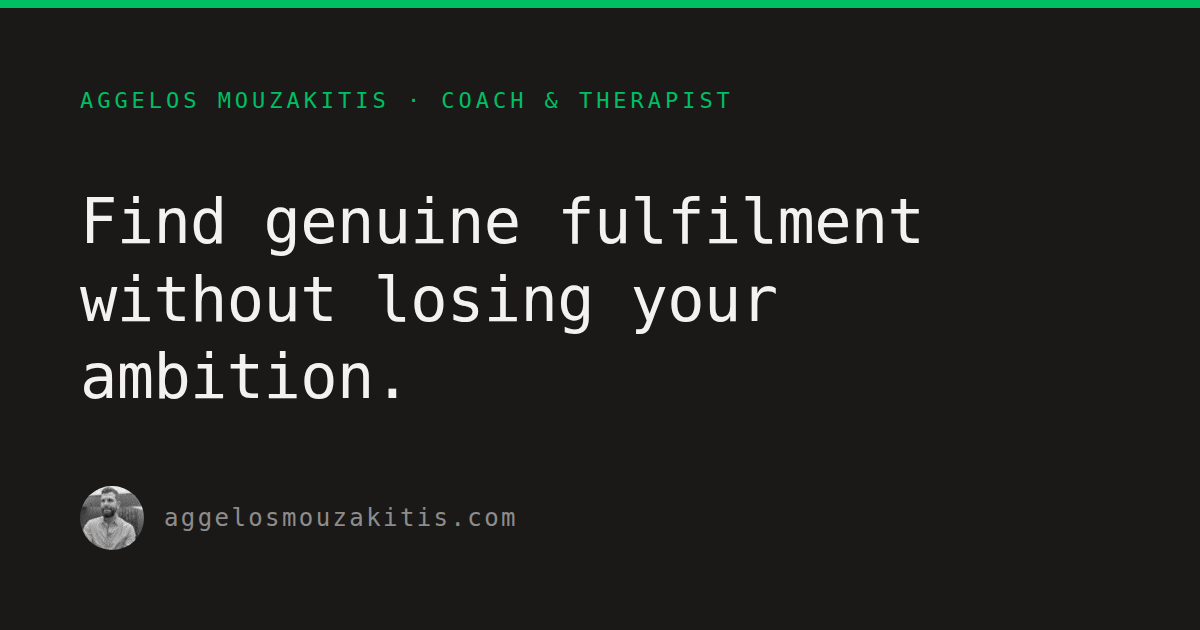
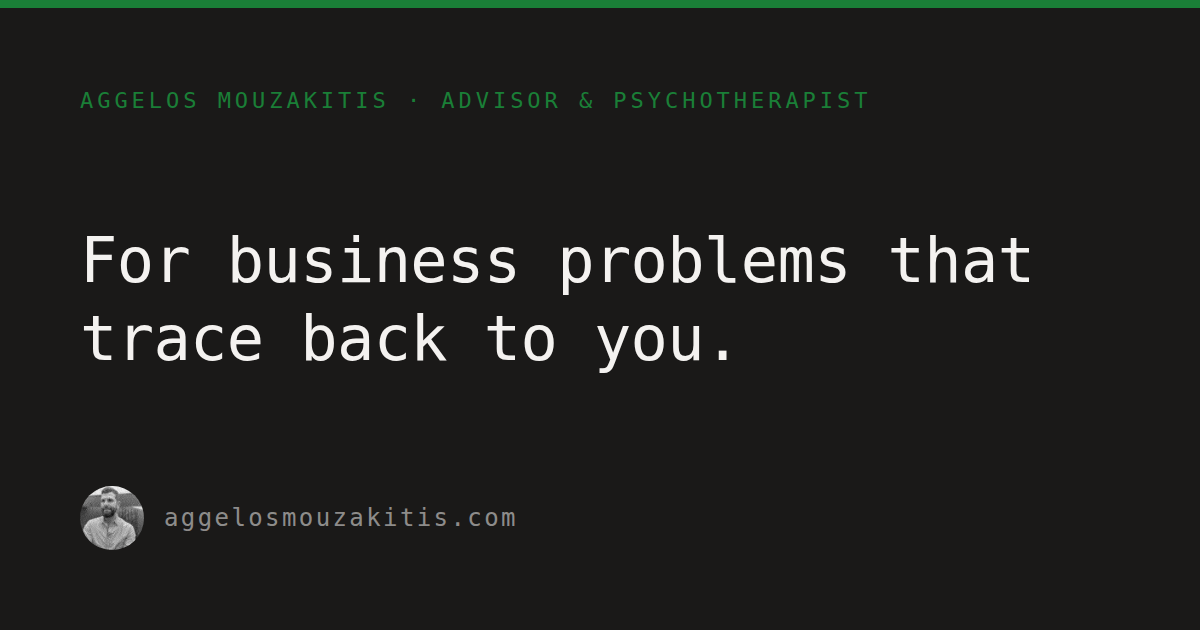
Refresh OG/social thumbnails to the new positioning; give every page its own
Every page now has a share image that matches it and reflects the current
'Advisor & Psychotherapist' brand (was the old 'Coach & Therapist /
fulfilment' graphic reused on 7 pages):

New dedicated images (were all reusing home.png): about, founders,
solopreneurs, how-i-work, book, reviews — HTML og:image/twitter:image and
alt repointed to each.

Updated in place:
- home.png: eyebrow -> 'Advisor & Psychotherapist'; headline -> 'For business
  problems that trace back to you.'
- burnout-diagnostic.png: dropped off-brand 'Fulfilment' -> 'The
  high-performance diagnostic'
- 5 therapy pages: eyebrow role -> 'Licensed Psychotherapist' (titles kept to
  match each page's retained SEO keywords)

blog, ask-me-anything, and the 26 per-post images were already current and
on-brand — left as-is. Regenerated via scripts/seo/og.js.

Claude-Session: https://claude.ai/code/session_01RZmmghnYEmeXZNG2CYV3SY

diff --git a/solopreneurs/index.html b/solopreneurs/index.html
@@ -27,17 +27,17 @@
 <meta property="og:title" content="Solopreneur Advisory for Business Problems That Trace Back to You | Aggelos Mouzakitis">
 <meta property="og:description" content="For solopreneurs and independent consultants whose stuck sales, pricing fear, or endless direction-switching trace back to a pattern in them, not a tactics problem. A trusted advisor who's built his own thing.">
 <meta property="og:url" content="https://aggelosmouzakitis.com/solopreneurs/">
-<meta property="og:image" content="https://aggelosmouzakitis.com/img/og/home.png">
+<meta property="og:image" content="https://aggelosmouzakitis.com/img/og/solopreneurs.png">
 <meta property="og:image:type" content="image/png">
 <meta property="og:image:width" content="1200">
 <meta property="og:image:height" content="630">
-<meta property="og:image:alt" content="Solopreneur advisory">
+<meta property="og:image:alt" content="Solopreneur advisory for problems that trace back to you">
 <meta property="og:site_name" content="Aggelos Mouzakitis">
 <meta property="og:locale" content="en_IE">
 <meta name="twitter:card" content="summary_large_image">
 <meta name="twitter:title" content="Solopreneur Advisory for Business Problems That Trace Back to You | Aggelos Mouzakitis">
 <meta name="twitter:description" content="For solopreneurs and independent consultants whose stuck sales, pricing fear, or endless direction-switching trace back to a pattern in them, not a tactics problem. A trusted advisor who's built his own thing.">
-<meta name="twitter:image" content="https://aggelosmouzakitis.com/img/og/home.png">
+<meta name="twitter:image" content="https://aggelosmouzakitis.com/img/og/solopreneurs.png">
 <script type="application/ld+json">{"@context":"https://schema.org","@type":"Person","name":"Aggelos Mouzakitis","url":"https://aggelosmouzakitis.com","image":"https://aggelosmouzakitis.com/img/aggelos.jpg","jobTitle":["Advisor","Licensed Psychotherapist"],"description":"Advisor and licensed psychotherapist helping solopreneurs and independent consultants work through the patterns behind stuck sales, pricing fear, and direction-switching, alongside the real business problem in front of them. 18+ years of B2B SaaS growth experience.","sameAs":["https://www.linkedin.com/in/growth-product-manager/","https://undisguised.io","https://headofgrowth.io"],"address":{"@type":"PostalAddress","addressCountry":"IE"},"hasCredential":{"@type":"EducationalOccupationalCredential","credentialCategory":"Professional Accreditation","name":"Registered Member, BACP","recognizedBy":{"@type":"Organization","name":"British Association for Counselling and Psychotherapy","alternateName":"BACP","url":"https://www.bacp.co.uk"}},"knowsAbout":["Solopreneur Psychology","Independent Consulting","Pricing Confidence","Visibility Fear","Procrastination","Business Strategy"]}</script>
 <style>
 *, *::before, *::after { margin: 0; padding: 0; box-sizing: border-box; }

diff --git a/founders/index.html b/founders/index.html
@@ -27,17 +27,17 @@
 <meta property="og:title" content="Founder Advisory for Business Problems That Trace Back to You | Aggelos Mouzakitis">
 <meta property="og:description" content="For tech founders whose stress, self-criticism, or stalled goals trace back to a pattern in them, not a strategy problem. A trusted advisor who's sat in your seat.">
 <meta property="og:url" content="https://aggelosmouzakitis.com/founders/">
-<meta property="og:image" content="https://aggelosmouzakitis.com/img/og/home.png">
+<meta property="og:image" content="https://aggelosmouzakitis.com/img/og/founders.png">
 <meta property="og:image:type" content="image/png">
 <meta property="og:image:width" content="1200">
 <meta property="og:image:height" content="630">
-<meta property="og:image:alt" content="For Founders">
+<meta property="og:image:alt" content="Founder advisory for problems that trace back to you">
 <meta property="og:site_name" content="Aggelos Mouzakitis">
 <meta property="og:locale" content="en_IE">
 <meta name="twitter:card" content="summary_large_image">
 <meta name="twitter:title" content="Founder Advisory for Business Problems That Trace Back to You | Aggelos Mouzakitis">
 <meta name="twitter:description" content="For tech founders whose stress, self-criticism, or stalled goals trace back to a pattern in them, not a strategy problem. A trusted advisor who's sat in your seat.">
-<meta name="twitter:image" content="https://aggelosmouzakitis.com/img/og/home.png">
+<meta name="twitter:image" content="https://aggelosmouzakitis.com/img/og/founders.png">
 <script type="application/ld+json">{"@context":"https://schema.org","@type":"Person","name":"Aggelos Mouzakitis","url":"https://aggelosmouzakitis.com","image":"https://aggelosmouzakitis.com/img/aggelos.jpg","jobTitle":["Advisor","Licensed Psychotherapist"],"description":"Advisor and licensed psychotherapist helping tech founders and solopreneurs work through the patterns behind stress, stalled decisions, and self-criticism, alongside the real business problem in front of them. 18+ years of B2B SaaS growth experience.","sameAs":["https://www.linkedin.com/in/growth-product-manager/","https://undisguised.io","https://headofgrowth.io"],"address":{"@type":"PostalAddress","addressCountry":"IE"},"hasCredential":{"@type":"EducationalOccupationalCredential","credentialCategory":"Professional Accreditation","name":"Registered Member, BACP","recognizedBy":{"@type":"Organization","name":"British Association for Counselling and Psychotherapy","alternateName":"BACP","url":"https://www.bacp.co.uk"}},"knowsAbout":["Founder Psychology","Startup Stress","Founder Loneliness","Decision Fatigue","Imposter Syndrome","Business Strategy"]}</script>
 <style>
 *, *::before, *::after { margin: 0; padding: 0; box-sizing: border-box; }

diff --git a/how-i-work/index.html b/how-i-work/index.html
@@ -27,17 +27,17 @@
 <meta property="og:title" content="How I Work | Aggelos Mouzakitis">
 <meta property="og:description" content="How I work with tech founders and solopreneurs: a private one-to-one advisory relationship in three steps — fit call, paid session, and ongoing work across an inner and a business track.">
 <meta property="og:url" content="https://aggelosmouzakitis.com/how-i-work/">
-<meta property="og:image" content="https://aggelosmouzakitis.com/img/og/home.png">
+<meta property="og:image" content="https://aggelosmouzakitis.com/img/og/how-i-work.png">
 <meta property="og:image:type" content="image/png">
 <meta property="og:image:width" content="1200">
 <meta property="og:image:height" content="630">
-<meta property="og:image:alt" content="How I Work">
+<meta property="og:image:alt" content="How I work">
 <meta property="og:site_name" content="Aggelos Mouzakitis">
 <meta property="og:locale" content="en_IE">
 <meta name="twitter:card" content="summary_large_image">
 <meta name="twitter:title" content="How I Work | Aggelos Mouzakitis">
 <meta name="twitter:description" content="How I work with tech founders and solopreneurs: a private one-to-one advisory relationship in three steps — fit call, paid session, and ongoing work across an inner and a business track.">
-<meta name="twitter:image" content="https://aggelosmouzakitis.com/img/og/home.png">
+<meta name="twitter:image" content="https://aggelosmouzakitis.com/img/og/how-i-work.png">
 <style>
 *, *::before, *::after { margin: 0; padding: 0; box-sizing: border-box; }
 html, body, #root { height: 100%; }

diff --git a/about/index.html b/about/index.html
@@ -27,17 +27,17 @@
 <meta property="og:title" content="About Aggelos Mouzakitis | Advisor &amp; Licensed Psychotherapist">
 <meta property="og:description" content="Advisor and licensed psychotherapist (BACP) for tech founders and solopreneurs. 18+ years in product and growth. Based in Ireland, working globally.">
 <meta property="og:url" content="https://aggelosmouzakitis.com/about/">
-<meta property="og:image" content="https://aggelosmouzakitis.com/img/og/home.png">
+<meta property="og:image" content="https://aggelosmouzakitis.com/img/og/about.png">
 <meta property="og:image:type" content="image/png">
 <meta property="og:image:width" content="1200">
 <meta property="og:image:height" content="630">
-<meta property="og:image:alt" content="Aggelos Mouzakitis">
+<meta property="og:image:alt" content="Aggelos Mouzakitis — advisor and licensed psychotherapist">
 <meta property="og:site_name" content="Aggelos Mouzakitis">
 <meta property="og:locale" content="en_IE">
 <meta name="twitter:card" content="summary_large_image">
 <meta name="twitter:title" content="About Aggelos Mouzakitis">
 <meta name="twitter:description" content="Advisor and licensed psychotherapist (BACP) for tech founders and solopreneurs.">
-<meta name="twitter:image" content="https://aggelosmouzakitis.com/img/og/home.png">
+<meta name="twitter:image" content="https://aggelosmouzakitis.com/img/og/about.png">
 <meta name="theme-color" content="#F5F5F5">
 <meta name="author" content="Aggelos Mouzakitis">
 <link rel="alternate" hreflang="en" href="https://aggelosmouzakitis.com/about/">

diff --git a/reviews/index.html b/reviews/index.html
@@ -27,17 +27,17 @@
 <meta property="og:title" content="Client reflections | Aggelos Mouzakitis">
 <meta property="og:description" content="Anonymous reflections from tech founders and solopreneurs on working with Aggelos Mouzakitis.">
 <meta property="og:url" content="https://aggelosmouzakitis.com/reviews/">
-<meta property="og:image" content="https://aggelosmouzakitis.com/img/og/home.png">
+<meta property="og:image" content="https://aggelosmouzakitis.com/img/og/reviews.png">
 <meta property="og:image:type" content="image/png">
 <meta property="og:image:width" content="1200">
 <meta property="og:image:height" content="630">
-<meta property="og:image:alt" content="Client reflections">
+<meta property="og:image:alt" content="In their words — client reflections">
 <meta property="og:site_name" content="Aggelos Mouzakitis">
 <meta property="og:locale" content="en_IE">
 <meta name="twitter:card" content="summary_large_image">
 <meta name="twitter:title" content="Client reflections | Aggelos Mouzakitis">
 <meta name="twitter:description" content="Anonymous reflections from tech founders and solopreneurs.">
-<meta name="twitter:image" content="https://aggelosmouzakitis.com/img/og/home.png">
+<meta name="twitter:image" content="https://aggelosmouzakitis.com/img/og/reviews.png">
 <meta name="theme-color" content="#F5F5F5">
 <meta name="author" content="Aggelos Mouzakitis">
 <link rel="alternate" hreflang="en" href="https://aggelosmouzakitis.com/reviews/">

diff --git a/book/index.html b/book/index.html
@@ -27,17 +27,17 @@
 <meta property="og:title" content="Book a Fit Call | Aggelos Mouzakitis">
 <meta property="og:description" content="Book a short, free 15-minute fit call with Aggelos Mouzakitis to see whether working together actually makes sense.">
 <meta property="og:url" content="https://aggelosmouzakitis.com/book/">
-<meta property="og:image" content="https://aggelosmouzakitis.com/img/og/home.png">
+<meta property="og:image" content="https://aggelosmouzakitis.com/img/og/book.png">
 <meta property="og:image:type" content="image/png">
 <meta property="og:image:width" content="1200">
 <meta property="og:image:height" content="630">
-<meta property="og:image:alt" content="Book a Fit Call">
+<meta property="og:image:alt" content="Book a fit call">
 <meta property="og:site_name" content="Aggelos Mouzakitis">
 <meta property="og:locale" content="en_IE">
 <meta name="twitter:card" content="summary_large_image">
 <meta name="twitter:title" content="Book a Fit Call | Aggelos Mouzakitis">
 <meta name="twitter:description" content="Book a short, free 15-minute fit call with Aggelos Mouzakitis to see whether working together actually makes sense.">
-<meta name="twitter:image" content="https://aggelosmouzakitis.com/img/og/home.png">
+<meta name="twitter:image" content="https://aggelosmouzakitis.com/img/og/book.png">
 <style>
 *, *::before, *::after { margin: 0; padding: 0; box-sizing: border-box; }
 html, body, #root { height: 100%; }

diff --git a/burnout-diagnostic/index.html b/burnout-diagnostic/index.html
@@ -31,7 +31,7 @@
 <meta property="og:image:type" content="image/png">
 <meta property="og:image:width" content="1200">
 <meta property="og:image:height" content="630">
-<meta property="og:image:alt" content="The Fulfilment Diagnostic">
+<meta property="og:image:alt" content="The high-performance diagnostic">
 <meta property="og:site_name" content="Aggelos Mouzakitis">
 <meta property="og:locale" content="en_IE">
 <meta name="twitter:card" content="summary_large_image">
